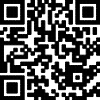
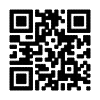
修改单个产品四个图标样式和二维码

diff --git a/app/assets/stylesheets/customer/customer.css.scss b/app/assets/stylesheets/customer/customer.css.scss
@@ -30,9 +30,12 @@ body{
 .erwei {
 	width: 90px;
 	height: 90px;
-	background: url(/assets/erwei.png) no-repeat;
 	position: fixed;
 	left: 10px;
+}
+.erwei span {
+	color: rgb(228,103,19);
+	font-size: 12px;
 }
 h6 {
 	font-size: 12.5px;
@@ -196,8 +199,9 @@ border-bottom:1px solid #fff;
 }
 .submenulist li img {
 	float: left;
-	width: 30px;
+	width: 40px;
 	padding-left: 3px;
+	margin-top: -5px;
 }
 .submenulist li h3 a{
 position:relative;
@@ -228,7 +232,7 @@ overflow:hidden;
 }
 .submenulist li h3 a.on{
 background:#fff;
-width:184px;
+width:204px;
 height:33px;
 color:#f60;
 padding-top: 3px;
@@ -241,7 +245,7 @@ overflow:hidden;
 .submenu .listbox{
 position:absolute;
 top:0;
-left:184px;
+left:204px;
 width:792px;
 background:#fff;
 border:2px solid #bfd3a9;

diff --git a/app/assets/stylesheets/customer/test.css.scss b/app/assets/stylesheets/customer/test.css.scss
@@ -455,6 +455,7 @@ li.font-border a {
 	//margin-top: 60px;
 	width: 100%;
 	margin-left: 30px;
+	margin-top: 20px;
 }
 .product-description .product-item img{
 	float: left;
@@ -463,14 +464,14 @@ li.font-border a {
 	margin-right: 30px;
 }
 .product-description .product-item img:hover {
-    border: 2px solid red;
+    border: 1px solid white;
 }
 .product-phone {
 	background-image: url(/assets/product/400.png);
 	height: 27px;
 	width: 338px;
 	float: right;
-	margin: 25px 90px 8px 0;
+	margin: 35px 90px 8px 0;
 	//border: 1px solid;
 }
 .product-item ul {
@@ -485,7 +486,7 @@ li.font-border a {
 	display: none;
 	position: absolute;
 	left: 35%;
-	top: 80px;
+	top: 60px;
 	width: 220px;
 	background: #ffffff;
 }
